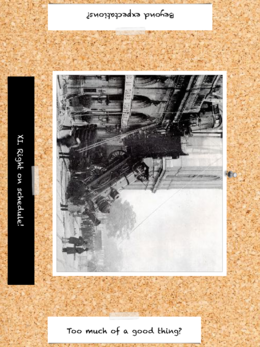
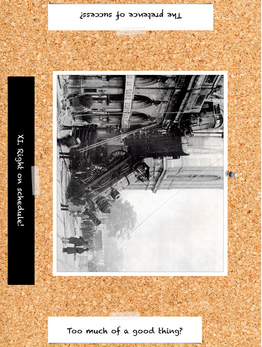
Cards XI: Rephrased, started examples

diff --git a/src/main.rs b/src/main.rs
@@ -1,0 +1,268 @@
+#![feature(futures_api)]
+
+extern crate clap;
+extern crate itertools;
+
+use std::collections::HashSet;
+use std::process::Command;
+
+use clap::{ Arg, App };
+use itertools::Itertools;
+
+const NUMBER_OF_CARDS: usize = 22;
+const INTERMEDIATE_FORMAT: &'static str = "jpg";
+const FINAL_FORMAT: &'static str = "png";
+
+const TMP_MAX_QUALITY_TWO_CARDS_PREFIX: &'static str = "/tmp/max-quality-two-cards";
+const TMP_HIGH_QUALITY_HORIZONTAL_CARD_PREFIX: &'static str = "/tmp/horizontal_card_";
+
+const FINAL_HIGH_QUALITY_UP_CARD_PREFIX: &'static str = "card_";
+const FINAL_HIGH_QUALITY_DOWN_CARD_PREFIX: &'static str = "reversed_card_";
+const FINAL_THUMBNAIL_UP_CARD_PREFIX: &'static str = "small_card_";
+const FINAL_THUMBNAIL_DOWN_CARD_PREFIX: &'static str = "small_reversed_card_";
+const FINAL_THUMBNAIL_HORIZONTAL_CARD_NAME: &'static str = "small_horizontal_card_";
+
+
+const GEOMETRY_TOP: &'static str = "0x2117+0+0";
+const GEOMETRY_BOT: &'static str = "0x2117+0+2117";
+
+struct Options {
+    /// Source pdf.
+    source: String,
+    cards: HashSet<usize>,
+    /// Destination directory.
+    dest: String,
+}
+
+fn parse_cli() -> Options {
+    let matches = App::new("Deck rebuilder")
+        .author("David Teller")
+        .arg(Arg::with_name("cards")
+            .help("Add one card or a range of cards between 0 and 21. If unspecified, all.")
+            .multiple(true)
+            .takes_value(true)
+            .use_delimiter(true)
+        )
+        .arg(Arg::with_name("input")
+            .help("Source pdf file, two horizontal cards per page.")
+            .short("i")
+            .long("in")
+            .takes_value(true)
+            .required(true)
+        )
+        .get_matches();
+
+    // Cards
+    let mut cards = HashSet::new();
+    if let Some(values) = matches.values_of("cards") {
+        for range in values {
+            // Single card number.
+            if let Ok(index) = str::parse::<usize>(range) {
+                cards.insert(index);
+                continue;
+            }
+            // x-y
+            if let Some(index) = range.find('-') {
+                let start = str::parse::<usize>(&range[0..index])
+                    .unwrap_or_else(|_| panic!("Invalid range format {} (range start)", range));
+                let stop = str::parse::<usize>(&range[index + 1 .. range.len()])
+                    .unwrap_or_else(|_| panic!("Invalid range format {} (range end)", range));
+                for _ in start..stop + 1 {
+                    cards.insert(index);
+                }
+                continue;
+            }
+            panic!("Invalid range format {}", range);
+        }
+    } else {
+        // All cards.
+        for i in 0..NUMBER_OF_CARDS {
+            cards.insert(i);
+        }
+    }
+
+    // Source
+    let source = matches.value_of("input")
+        .unwrap()
+        .to_string();
+
+    let dest = matches.value_of("dest")
+        .map(str::to_string)
+        .unwrap_or_else(|| "assets".to_string());
+
+    Options {
+        cards,
+        source,
+        dest,
+    }
+}
+
+fn batch(commands: Vec<std::process::Child>) {
+    for mut command in commands.into_iter() {
+        print!(".");
+        command.wait()
+            .expect("Command failed to execute"); // Note: We could parallelize more.
+    }
+    println!("   DONE");
+}
+
+fn main() {
+    let Options { cards, source, dest } = parse_cli();
+    let cards = cards.into_iter()
+        .sorted();
+    println!("Regenerating cards {cards} from {source}",
+        cards = cards.iter().format(","),
+        source = source);
+
+
+    // Extracting max quality pages from source pdf.
+    let pages : Vec<_> = cards.iter()
+        .map(|i| i / 2)
+        .dedup()
+        .collect();
+    print!("Regenerating pages {}", pages.iter().format(","));
+
+    batch(pages.into_iter()
+            .map(|i| {
+                Command::new("convert")
+                    .args(&["-density", "300"])
+                    .args(&["-quality", "90"])
+                    .arg("-trim")
+                    .arg(&format!("{source}[{index}]",
+                        source = source,
+                        index = i))
+                    .arg(&format!("{prefix}{index}.{ext}",
+                        prefix = TMP_MAX_QUALITY_TWO_CARDS_PREFIX,
+                        index = i,
+                        ext = INTERMEDIATE_FORMAT))
+                    .spawn()
+                    .expect("Command failed to start")
+            })
+            .collect());
+
+    print!("Extracting high quality horizontal cards");
+    batch(cards.iter()
+            .map(|i| {
+                let geometry =
+                    if i % 2 == 0 {
+                        // Even: top of the page.
+                        GEOMETRY_TOP
+                    } else {
+                        // Odd: bottom of the page.
+                        GEOMETRY_BOT
+                    };
+                Command::new("convert")
+                    .arg(&format!("{prefix}{index}.{ext}[{geometry}]",
+                        geometry = geometry,
+                        prefix = TMP_MAX_QUALITY_TWO_CARDS_PREFIX,
+                        index = i / 2,
+                        ext = INTERMEDIATE_FORMAT))
+                    .arg("-trim")
+                    .args(&["-resize", "25%"])
+                    .arg(&format!("{prefix}{index}.{ext}",
+                        prefix = TMP_HIGH_QUALITY_HORIZONTAL_CARD_PREFIX,
+                        index = i,
+                        ext = INTERMEDIATE_FORMAT))
+                    .spawn()
+                    .expect("Command failed to start")
+        })
+        .collect());
+
+
+    print!("Extracting high quality up cards");
+    batch(cards.iter()
+            .map(|i| {
+                Command::new("convert")
+                    .arg(&format!("{prefix}{index}.{ext}",
+                        prefix = TMP_HIGH_QUALITY_HORIZONTAL_CARD_PREFIX,
+                        index = i,
+                        ext = INTERMEDIATE_FORMAT))
+                    .args(&["-rotate", "90"])
+                    .arg(&format!("{dest}/{prefix}{index}.{ext}",
+                        dest = dest,
+                        prefix = FINAL_HIGH_QUALITY_UP_CARD_PREFIX,
+                        index = i,
+                        ext = FINAL_FORMAT))
+                    .spawn()
+                    .expect("Command failed to start")
+            })
+        .collect());
+
+    print!("Extracting high quality down cards");
+    batch(cards.iter()
+            .map(|i| {
+                Command::new("convert")
+                    .arg(&format!("{prefix}{index}.{ext}",
+                        prefix = TMP_HIGH_QUALITY_HORIZONTAL_CARD_PREFIX,
+                        index = i,
+                        ext = INTERMEDIATE_FORMAT))
+                    .args(&["-rotate", "-90"])
+                    .arg(&format!("{dest}/{prefix}{index}.{ext}",
+                        dest = dest,
+                        prefix = FINAL_HIGH_QUALITY_DOWN_CARD_PREFIX,
+                        index = i,
+                        ext = FINAL_FORMAT))
+                    .spawn()
+                    .expect("Command failed to start")
+            })
+        .collect());
+
+    print!("Extracting horizontal thumbnails");
+    batch(cards.iter()
+        .map(|i| {
+            Command::new("convert")
+                .arg(&format!("{prefix}{index}.{ext}",
+                        prefix = TMP_HIGH_QUALITY_HORIZONTAL_CARD_PREFIX,
+                        index = i,
+                        ext = INTERMEDIATE_FORMAT))
+                .args(&["-resize", "50%"])
+                .arg(&format!("{dest}/{name}{index}.{ext}",
+                    dest = dest,
+                    name = FINAL_THUMBNAIL_HORIZONTAL_CARD_NAME,
+                    index = i,
+                    ext = FINAL_FORMAT))
+                .spawn()
+                .expect("Command failed to start")
+        })
+        .collect());
+
+    print!("Extracting up thumbnails");
+    batch(cards.iter()
+        .map(|i| {
+            Command::new("convert")
+                .arg(&format!("{dest}/{prefix}{index}.{ext}",
+                        dest = dest,
+                        prefix = FINAL_HIGH_QUALITY_UP_CARD_PREFIX,
+                        index = i,
+                        ext = FINAL_FORMAT))
+                .args(&["-resize", "50%"])
+                .arg(&format!("{dest}/{name}{index}.{ext}",
+                    dest = dest,
+                    name = FINAL_THUMBNAIL_UP_CARD_PREFIX,
+                    index = i,
+                    ext = FINAL_FORMAT))
+                .spawn()
+                .expect("Command failed to start")
+        })
+        .collect());
+
+    print!("Extracting down thumbnails");
+    batch(cards.iter()
+        .map(|i| {
+            Command::new("convert")
+                .arg(&format!("{dest}/{prefix}{index}.{ext}",
+                        dest = dest,
+                        prefix = FINAL_HIGH_QUALITY_DOWN_CARD_PREFIX,
+                        index = i,
+                        ext = FINAL_FORMAT))
+                .args(&["-resize", "50%"])
+                .arg(&format!("{dest}/{name}{index}.{ext}",
+                    dest = dest,
+                    name = FINAL_THUMBNAIL_DOWN_CARD_PREFIX,
+                    index = i,
+                    ext = FINAL_FORMAT))
+                .spawn()
+                .expect("Command failed to start")
+        })
+        .collect());
+}

diff --git a/cards.md b/cards.md
@@ -283,16 +283,90 @@ agility roll wouldn't be very interesting. So, *how did Desmond survive?*
 Here again, each of these interpretations introduces interesting Facts that will help
 you build the world and the plot.
 
-### III. Oh, that gorilla?
 
-![](/assets/small_horizontal_card_3.png)
+### XI. Right on schedule!
 
+![](/assets/small_horizontal_card_11.png)
 
+Default interpretations:
+- The pretence of success?
+- Too much of a good thing?
+
+This picture depicts one of most spectacular train accidents in history, in 1895.
+The train, which was running at the impressive speed of 60 km/h, failed to decelerate
+fast enough, and hit the train station at 40 km/h. While a mechanical failure was
+suspected, the judge decide to fine both drivers. Getting the train back in position
+was a complex operation, involving heavy engines, 25 horses and 3 goats. Yes, goats.
+
+The image: An accident and an engineering failure, which may or may not work in favor
+    of the characters. Also, a distant crowd of onlookers, representing curiosity and
+    the spirit of investigation, while the hard-to-notice policemen, may represent the
+    ability to keep this curiosity at bay, perhaps through conformism or obscurantism.
+    The destruction involved in this accident may apply to anything, buildings, objects,
+    pieces of art, or even ideas or causes. The attempts made to rescue the drivers
+    and to contain the accident may speak for the ability of people to help each
+    other during crisis.
+The pretence of success: Something that appears to work doesn't, or someone who appears
+    to be rich, influential or powerful isn't. It could mean ruin, an electoral defeat,
+    but also the mark of a con artist, or simply of a vanitous person, or of a blind
+    bureaucracy. It could also mean prestidigitation or illusions.
+Too much of a good thing: Something that is good or useful in small amounts may become
+    dangerous in larger amounts, or addictive, or toxic, or destructive. It could be
+    drugs or power or technology or faith. Has a character overused something?
+    Has an empire overextended itself? Has a group become over-reliant on something
+    on someone?
+
+#### Example: Robbery at the bank.
+
+The characters are gangsters robbing a bank, in Chicago during the 1920s.
+They are now ready to leave. *What awaits them outside?*
+
+- Either side:
+    - In the street, traffic is stopped by an accident. A tramway, or perhaps a bus,
+        has rolled on its side, injuring several passerbys. Onlookers are packed tight,
+        while several volunteers are trying to help the wounded as best as they can,
+        or to rescue the passengers of the tramway/bus. It's easy to stay unseen
+        in the crowd, but the escape vehicle is unusable.
+    - While the characters run towards the door, they realize that the director of the
+        bank has just pressed a hidden alarm button. Fortunately for the characters,
+        the alarm will fail. It may be an engineering problem – or maybe they're not
+        the only robbers around.
+- The pretence of success:
+    - While the characters exit the bank, attempting to reach their escape vehicle
+        without attracting undue attention, they find themselves in the middle of
+        some kind of commotion. A famous Hollywood actor/actress is walking that
+        same street right now, surrounded by admirers and journalists. Oh, and
+        photographers are taking as many pictures as they can. How many of them
+        show the characters?
+     - The characters leave the bank, manage to pile up in their escape vehicle,
+        and prepare to leave. That is, until one of them realizes that the ink
+        on the banknotes is still wet. Somehow, someone just pulled a fast one
+        on them.
+- Too much of a good thing:
+    - The characters were extremely successful. They have ten large bags full of currency,
+        jewels and treasure bonds. The characters run at the escape vehicle as fast as
+        they can, but too slowly. Someone in the street screams. A constable notices
+        all these suspicious people leaving the bank in a hurry, and starts blowing in
+        his whistle. The driver starts to panic. What do you do?
+    - Some people react strangely when they're pumped full of adrenaline. One of the robbers,
+        up on adrenaline, (PC? NPC?) draws his gun and starts shooting and "yeahing" in
+        the pure tradition of litterary cow-boys. That's bound to attract unwanted
+        attention. Armed attention.
+
+**TBD**
+
+#### Example: The Poet, at work.
+
+**TBD**
+
+#### Example: Battle for the North Wall
+
+**TBD**
 
 ### Everything else
 
 TBD
-
+![](/assets/small_horizontal_card_3.png)
 ![](/assets/small_horizontal_card_4.png)
 ![](/assets/small_horizontal_card_5.png)
 ![](/assets/small_horizontal_card_6.png)
@@ -300,7 +374,7 @@ TBD
 ![](/assets/small_horizontal_card_8.png)
 ![](/assets/small_horizontal_card_9.png)
 ![](/assets/small_horizontal_card_10.png)
-![](/assets/small_horizontal_card_11.png)
+
 ![](/assets/small_horizontal_card_12.png)
 ![](/assets/small_horizontal_card_13.png)
 ![](/assets/small_horizontal_card_14.png)
